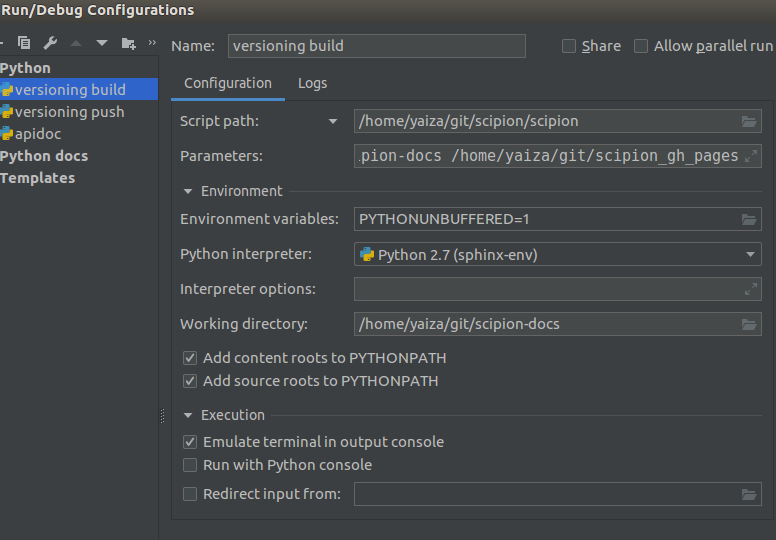
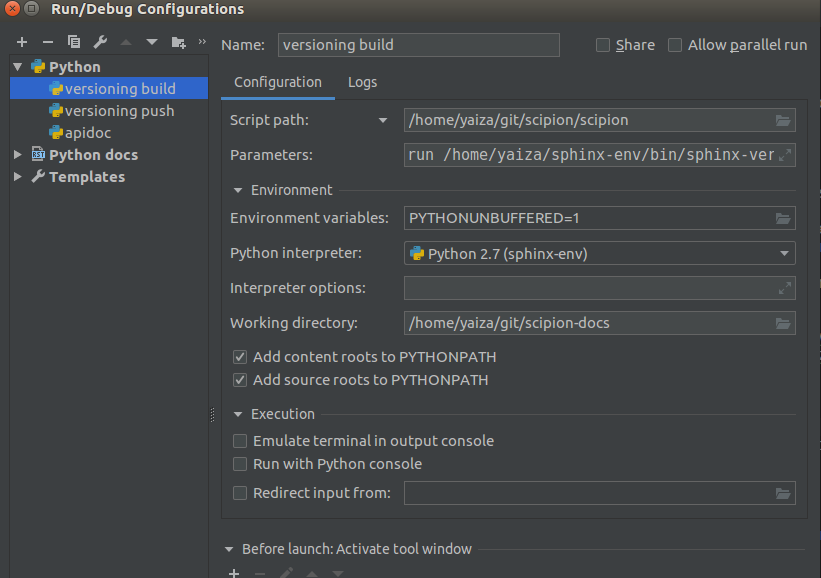
some build docs changes

diff --git a/docs/developer/building-scipion-docs.rst b/docs/developer/building-scipion-docs.rst
@@ -49,31 +49,14 @@ Sphinx virtualenv
     (sphinx-env) $ cd scipion-docs
     (sphinx-env) $ pip install -r requirements.txt
 
-NOTE: we could skip the environment creation and install the requirements in Scipion's python. However the installation of requirements will mess with the versions currently
-available in Scipion's site-packages.
-
-Scipion's environment variables
--------------------------------
-
-If you plan on using a PyCharm run configurations, you can skip this step.
-Set environment variables to emulate Scipion's environment. We have to do this because in order to build the api
-docs, Sphinx actually imports the modules. Without these variables, many modules will fail to import. We need:
-``SCIPION_HOME``, ``LD_LIBRARY_PATH``, ``SCIPION_SHORT_VERSION``. To export these variables, copy the output of the
-following commands in a terminal:
-
-.. code-block:: bash
-
-    (sphinx-env) $ scipion printenv | grep -E 'SCIPION_HOME|LD_LIBRARY_PATH|SCIPION_SHORT_VERSION'
-    >>>>>>>>>>>>> Copy your output and run in terminal <<<<<<<<<<<<<
-    export LD_LIBRARY_PATH="/home/yaiza/git/scipion/software/lib:/usr/lib/openmpi/lib:/usr/local/cuda-8.0/lib64:/home/yaiza/git/scipion/software/em/xmipp/lib:/home/yaiza/git/scipion/software/lib:/usr/lib/openmpi/lib:/usr/local/cuda-8.0/lib64:/home/yaiza/git/scipion/software/em/xmipp/lib:/home/yaiza/git/scipion/software/lib:/usr/lib/openmpi/lib:/usr/local/cuda-8.0/lib64:/home/yaiza/git/scipion/software/em/xmipp/lib:/home/yaiza/git/scipion/software/lib:/usr/lib/openmpi/lib:/usr/local/cuda-8.0/lib64:/home/yaiza/git/scipion/software/em/xmipp/lib:"
-    export SCIPION_HOME="/home/yaiza/git/scipion"
-    export SCIPION_SHORT_VERSION="v2.0"
-
+NOTE: we could skip the environment creation and install the requirements in Scipion's python.
+However the installation of requirements will mess with some of the versions currently
+available in Scipion's site-packages, so we recommend not messing with this and installing sphinx packages in a
+separate virtualenv.
 
 Generate API docs
 -----------------
 
-To run this we need ``SCIPION_HOME`` in the environment.
 The api docs are contained in the folder ``api`` of the scipion docs repository. To update them, we need to run
 ``sphinx-apidoc``. Please note that this step is not necessary if you're just adding your own written ``.rst`` file.
 
@@ -87,13 +70,13 @@ Or alternatively, run this in the command line inside ``scipion-docs`` repo dir:
 
 .. code-block:: bash
 
-    sphinx-apidoc -f -e -o api/ $SCIPION_HOME/pyworkflow $SCIPION_HOME/pyworkflow/tests/*
+    sphinx-apidoc -f -e -o api/ ~/git/scipion/pyworkflow ~/git/scipion/pyworkflow/tests/*
 
 * ``-f`` forces to overwrite existing files
 * ``-e`` generates one rst file per module
 * ``api/`` put output files here
-* ``$SCIPION_HOME/pyworkflow`` is the source python code we want to generate docs for
-* ``$SCIPION_HOME/pyworkflow/tests/*`` avoid generating docs for files matching this pattern.
+* ``~/git/scipion/pyworkflow`` is the source python code we want to generate docs for
+* ``~/git/scipion/pyworkflow/tests/*`` avoid generating docs for files matching this pattern.
 
 
 Make html
@@ -107,7 +90,7 @@ It is a good idea to work on reducing these errors and warnings :)
 
 ::
 
-    (sphinx-env) $ make html
+    (sphinx-env) $ scipion run make html
 
 After this, we can open ``_build/html/index.html`` on a browser and see the built docs. At this point we won't have the
 version support on the bottom left corner.
@@ -121,7 +104,7 @@ local changes. The command used for this:
 
 .. code-block:: bash
 
-    (sphinx-env) $ sphinx-versioning build -r release-2.0.0 /home/yaiza/git/scipion-docs /home/yaiza/git/scipion_gh_pages
+    (sphinx-env) $ scipion run /home/yaiza/sphinx-env/bin/sphinx-versioning build -r release-2.0.0 /home/yaiza/git/scipion-docs /home/yaiza/git/scipion_gh_pages
 
 After executing this we should be able see the docs with version support by opening
 ``/home/yaiza/git/scipion_gh_pages/index.html`` with our browser.
@@ -131,7 +114,7 @@ We can also trigger this command with the following run configuration in PyCharm
 * **Script path**: ``/home/yaiza/git/scipion/scipion``
 * **Parameters**: ``run /home/yaiza/sphinx-env/bin/sphinx-versioning build -r release-2.0.0 /home/yaiza/git/scipion-docs /home/yaiza/git/scipion_gh_pages``
 * **Python interpreter**: The one from our ``sphinx-env``
-* **Working directory**: Our ``scipion-docs`` repo dir.
+* **Working directory**: Our ``scipion-docs`` repo dir
 
 
 .. image:: /docs/images/dev-tools/pycharm_sphinxversion_build.png
@@ -143,11 +126,12 @@ Once we are happy with the build, we can push our docs. For this we must run thi
 
 .. code-block:: bash
 
-    (sphinx-env) $ sphinx-versioning push -r release-2.0.0 /home/yaiza/git/scipion-docs gh-pages .
+    (sphinx-env) $ scipion run /home/yaiza/sphinx-env/bin/sphinx-versioning push -r release-2.0.0 /home/yaiza/git/scipion-docs gh-pages .
 
 The PyCharm run configuration is the same as before except for the parameters:
 
-* **Parameters** : ``run /home/yaiza/sphinx-env/bin/sphinx-versioning push -r release-2.0.0 /home/yaiza/git/scipion-docs gh-pages .``
+* **Parameters** : ``run /home/yaiza/sphinx-env/bin/sphinx-versioning push -r release-2.0.0
+                     /home/yaiza/git/scipion-docs gh-pages .``
 
 .. image:: /docs/images/dev-tools/pycharm_sphinxversion_push.png
    :alt: PyCharm run config for sphinx-version push
